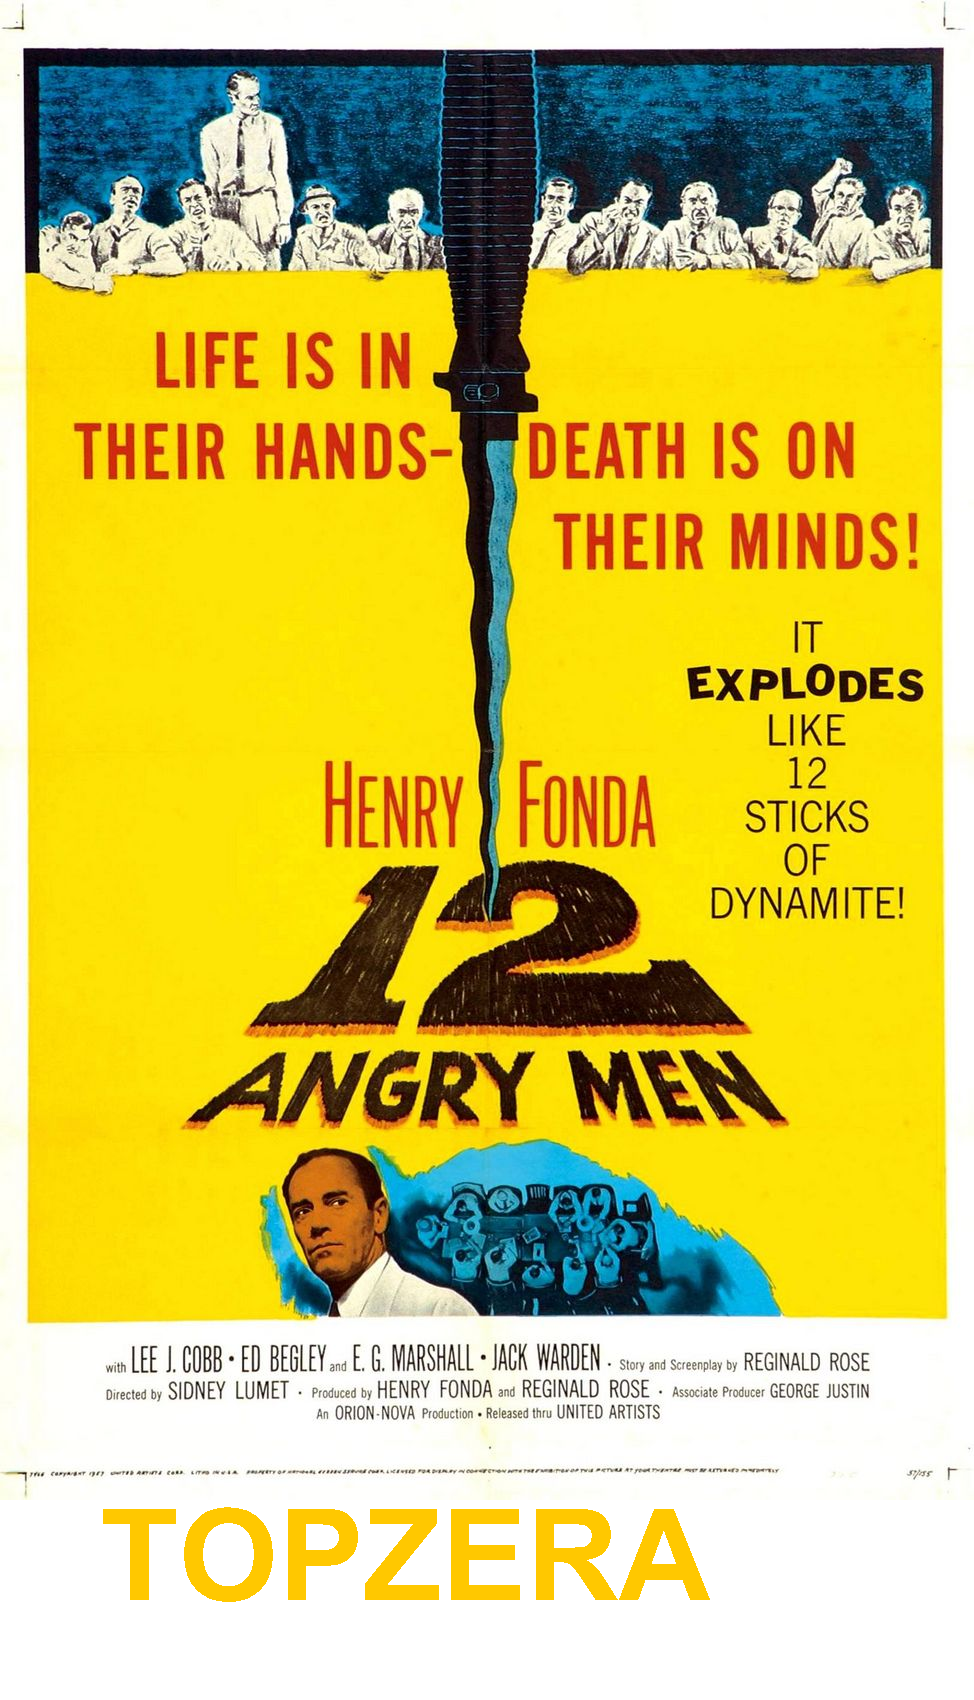
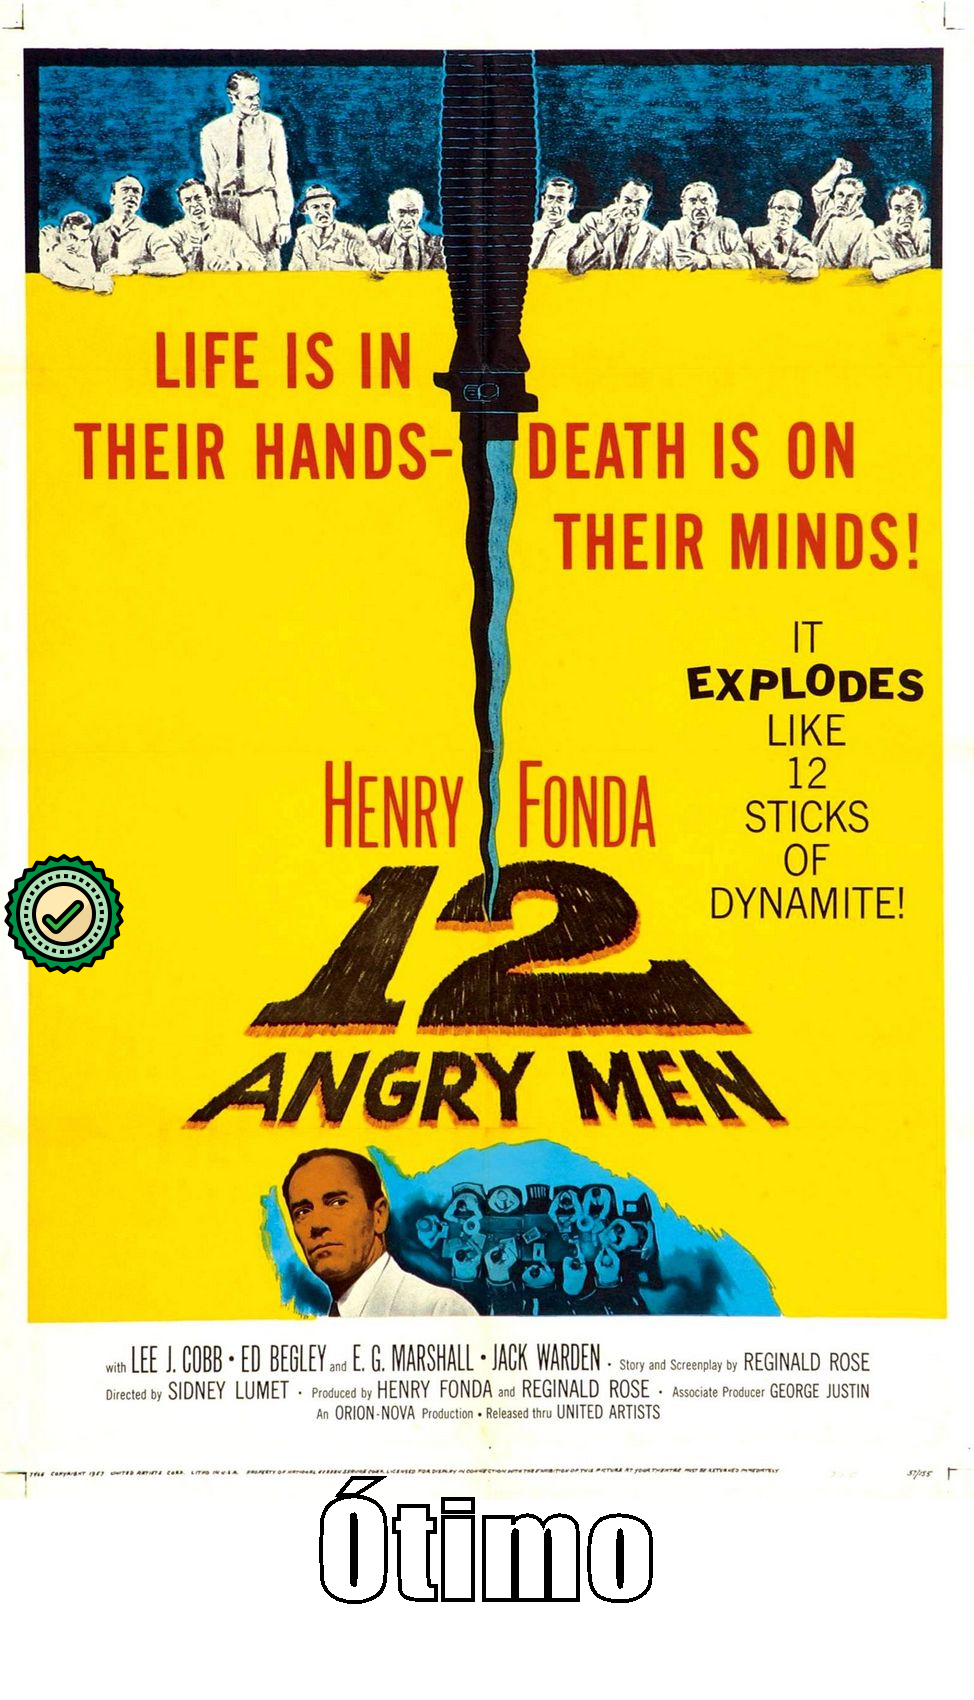
Desafio 2 parte 2

Changed region(s): [[0.0924, 0.8729, 0.7392, 0.9665], [0.0, 0.4988, 0.1232, 0.5924]]

diff --git a/Stickers/src/App.java b/Stickers/src/App.java
@@ -1,3 +1,5 @@
+import java.io.File;
+import java.io.FileInputStream;
 import java.io.InputStream;
 import java.net.URI;
 import java.net.URL;
@@ -51,16 +53,30 @@ public class App {
             
             String urlImage = filme.get("image");
             String titulo = filme.get("title");
-
+            double rank = Double.parseDouble(filme.get("imDbRating"));
+                        
             InputStream inputStream = new URL(urlImage).openStream();
-            String nomeArquivo = titulo + ".png";
-            
+            String nomeArquivo = titulo.replace(":", "-")  + ".png";
+            String textoFigurinha;
+
+            if (rank >= 9.0) {
+                textoFigurinha = "Incrível";
+            } else if (rank < 9.0 & rank > 8.0) {
+                textoFigurinha = "Ótimo";
+            } else {
+                textoFigurinha = "Ok";   
+            }           
+            InputStream verificacao;
+            if (rank >= 8.0) {
+                verificacao = new FileInputStream(new File("Stickers\\entrada\\aprovado.png"));
+            } else {
+                verificacao = new FileInputStream(new File("Stickers\\entrada\\reprovado.png"));
+            }
             StickerGenerator gerador = new StickerGenerator();
-            gerador.create(inputStream, nomeArquivo);
+            gerador.create(inputStream, nomeArquivo, textoFigurinha, verificacao);
 
             System.out.println("\u001b[1m" + filme.get("title") + "\u001b[m");
             System.out.println(filme.get("imDbRating"));
-            double rank = Double.parseDouble(filme.get("imDbRating"));
             int starNumber = (int) rank;
             for (int index = 0; index <= starNumber; index++) {
                 System.out.print("⭐");
@@ -73,10 +89,35 @@ public class App {
         System.out.println("#####################################");
 
         for (Map<String,String> filme : listPopularMovies) {
-            System.out.println("\u001b[1m" + filme.get("title") + "\u001b[m");
-            System.out.println(filme.get("image"));
-            System.out.println(filme.get("imDbRating"));
+            
+            String urlImage = filme.get("image");
+            String titulo = filme.get("title");
             double rank = Double.parseDouble(filme.get("imDbRating"));
+                        
+            InputStream inputStream = new URL(urlImage).openStream();
+            String nomeArquivo = titulo.replace(":", "-")  + ".png";
+            String textoFigurinha;
+
+            if (rank >= 9.0) {
+                textoFigurinha = "Incrível";
+            } else if (rank < 9.0 & rank > 8.0) {
+                textoFigurinha = "Ótimo";
+            } else {
+                textoFigurinha = "Ok";   
+            }           
+            InputStream verificacao;
+            if (rank >= 8.0) {
+                verificacao = new FileInputStream(new File("Stickers\\entrada\\aprovado.png"));
+            } else {
+                verificacao = new FileInputStream(new File("Stickers\\entrada\\reprovado.png"));
+            }
+            StickerGenerator gerador = new StickerGenerator();
+            gerador.create(inputStream, nomeArquivo, textoFigurinha, verificacao);
+
+
+            System.out.println("\u001b[1m" + filme.get("title") + "\u001b[m");
+//            System.out.println(filme.get("image"));
+            System.out.println(filme.get("imDbRating"));
             int starNumber = (int) rank;
             for (int index = 0; index <= starNumber; index++) {
                 System.out.print("⭐");
@@ -89,10 +130,34 @@ public class App {
         System.out.println("#####################################");
 
         for (Map<String,String> filme : listPopularTV) {
-            System.out.println("\u001b[1m" + filme.get("title") + "\u001b[m");
-            System.out.println(filme.get("image"));
-            System.out.println(filme.get("imDbRating"));
+            
+            String urlImage = filme.get("image");
+            String titulo = filme.get("title");
             double rank = Double.parseDouble(filme.get("imDbRating"));
+                        
+            InputStream inputStream = new URL(urlImage).openStream();
+            String nomeArquivo = titulo.replace(":", "-")  + ".png";
+            String textoFigurinha;
+
+            if (rank >= 9.0) {
+                textoFigurinha = "Incrível";
+            } else if (rank < 9.0 & rank > 8.0) {
+                textoFigurinha = "Ótimo";
+            } else {
+                textoFigurinha = "Ok";   
+            }           
+            InputStream verificacao;
+            if (rank >= 8.0) {
+                verificacao = new FileInputStream(new File("Stickers\\entrada\\aprovado.png"));
+            } else {
+                verificacao = new FileInputStream(new File("Stickers\\entrada\\reprovado.png"));
+            }
+            StickerGenerator gerador = new StickerGenerator();
+            gerador.create(inputStream, nomeArquivo, textoFigurinha, verificacao);
+
+            System.out.println("\u001b[1m" + filme.get("title") + "\u001b[m");
+//            System.out.println(filme.get("image"));
+            System.out.println(filme.get("imDbRating"));
             int starNumber = (int) rank;
             for (int index = 0; index <= starNumber; index++) {
                 System.out.print("⭐");

diff --git a/Stickers/src/StickerGenerator.java b/Stickers/src/StickerGenerator.java
@@ -1,6 +1,14 @@
+import java.awt.AlphaComposite;
+import java.awt.BasicStroke;
 import java.awt.Color;
 import java.awt.Font;
+import java.awt.FontMetrics;
 import java.awt.Graphics2D;
+import java.awt.Shape;
+import java.awt.font.FontRenderContext;
+import java.awt.font.TextLayout;
+import java.awt.geom.AffineTransform;
+import java.awt.geom.Rectangle2D;
 import java.awt.image.BufferedImage;
 import java.io.File;
 import java.io.InputStream;
@@ -8,7 +16,7 @@ import java.io.InputStream;
 import javax.imageio.ImageIO;
 
 public class StickerGenerator {
-    void create(InputStream inputStream, String nomeArquivo) throws Exception {
+    void create(InputStream inputStream, String nomeArquivo, String texto, InputStream inputStreamVerificacao) throws Exception {
         // leitura da imagem
         //InputStream inputStream  = new FileInputStream(new File("C:\\Users\\guilh\\Desktop\\java files\\Imersão-Java\\Imersao-Java\\Stickers\\entrada\\filme.jpg"));
         //InputStream inputStream = new URL("https://raw.githubusercontent.com/alura-cursos/imersao-java-2-api/main/TopMovies_1.jpg").openStream();
@@ -22,13 +30,34 @@ public class StickerGenerator {
         Graphics2D graphics = (Graphics2D) novaImagem.getGraphics();
         graphics.drawImage(imagemOriginal, 0, 0, null);
 
+        BufferedImage imagemVerificacao = ImageIO.read(inputStreamVerificacao);
+        int posicaoImagemVerificacaoY = novaAltura - (novaAltura/2);
+        graphics.drawImage(imagemVerificacao, 0, posicaoImagemVerificacaoY, null);
+
+
         // configurar a fonte de texto
-        Font fonte = new Font(Font.SANS_SERIF, Font.BOLD, 128);
-        graphics.setColor(Color.ORANGE);
+        Font fonte = new Font("Impact", Font.BOLD, 128);
+        graphics.setColor(Color.WHITE);
         graphics.setFont(fonte);
 
         // adicionar texto a imagem
-        graphics.drawString("TOPZERA", 100, novaAltura - 100);
+        FontMetrics fontMetrics = graphics.getFontMetrics();
+        Rectangle2D retangulo = fontMetrics.getStringBounds(texto, graphics);
+        int larguraTexto = (int) retangulo.getWidth();
+        int posicaoTextoX = (largura - larguraTexto) / 2;
+        int posicaoTextoY = novaAltura - 100;
+        graphics.drawString(texto, posicaoTextoX, posicaoTextoY);
+        FontRenderContext fontRenderContext = graphics.getFontRenderContext();
+        TextLayout textLayout = new TextLayout(texto, fonte, fontRenderContext);
+        Shape outline = textLayout.getOutline(null);
+        AffineTransform transform = graphics.getTransform();
+        transform.translate(posicaoTextoX, posicaoTextoY);
+        graphics.setTransform(transform);
+        BasicStroke outlineStroke = new BasicStroke(largura * 0.004f);
+        graphics.setStroke(outlineStroke);
+        graphics.setColor(Color.BLACK);
+        graphics.draw(outline);
+        graphics.setClip(outline);
 
         // escrever a nova imagem em arquivo
         ImageIO.write(novaImagem, "png", new File(nomeArquivo));
